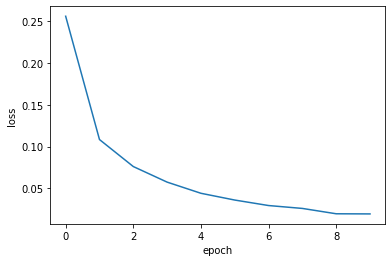
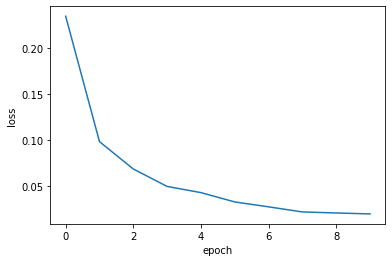
rebuilding site 2019년 9월  8일 일요일 14시 13분 16초 KST

diff --git a/post/neural_network_mnist/index.html b/post/neural_network_mnist/index.html
@@ -186,10 +186,8 @@ C에서의 &lsquo;hello world&rsquo;급이라고 할 수 있다.</p>
 <p>⚙ 엔지니어</p>
 
 <blockquote>
-<p>keras가 좋아하는 모양으로 되어 있다.<br />
-(batch_size, input_dimension) 기억하는가?<br />
-batch_size = 60000<br />
-imput_dimension = 784 (28X28)</p>
+<p>batch_size 는 60000<br />
+imput_dimension 은 (28X28)로 2D로 되어 있다.</p>
 
 <p>2D라고 쫄지말자&hellip;<br />
 x-y 그래프에서 점을 찍는데 점 색깔이 회색조로 256개가 있다고 생각하면 된다.<br />
@@ -249,7 +247,7 @@ plt<span style="color:#f92672">.</span>show()</code></pre></div>
 
 <h2 id="데이터-변환-data-transformation">데이터 변환 (Data Transformation)</h2>
 
-<p>입력 데이터의 shape (28,28)를 (784, )로 변환해 주어야 한다.<br />
+<p>입력 데이터의 2D shape (28,28)를 1D (784, )로 변환해 주는 작업을 <strong>벡터화(Flattern)</strong> 라고 한다.<br />
 이 작업은 keras layer에서 처리해 주면 된다. (나중에 하겠다는 얘기다.)</p>
 
 <p>소프트맥스(Softmax)를 사용할 예정이니까 출력 데이터를 원-핫 인코딩으로 변환해 주자</p>
@@ -271,7 +269,7 @@ one-hot encoded first Y_train is  [0. 0. 0. 0. 0. 1. 0. 0. 0. 0.]
 <ul>
 <li>input layer는 2D(28X28)를 1D로 변환해서 784개의 x로 만든다.<br /></li>
 <li>hidden layer 1은 128-unit으로 구성하자<br /></li>
-<li>hiddem layer 2는 32-unit으로 구성하자<br /></li>
+<li>hiddem layer 2는 84-unit으로 구성하자<br /></li>
 <li>output layer는 당연히 10-unit으로 구성, softmax를 activation function으로 사용한다.<br /></li>
 <li>loss는 cross-entropy loss를 사용<br /></li>
 </ul>
@@ -385,7 +383,7 @@ plt<span style="color:#f92672">.</span>show()</code></pre></div>
 
 <ol>
 <li>히든 레이어 개수를 정의한다. 여기서는 2-hidden layer를 사용한다.<br /></li>
-<li>히든 레이어 유닛 개수를 정의한다. 여기서는 128개, 32개 유닛을 사용한다.<br /></li>
+<li>히든 레이어 유닛 개수를 정의한다. 여기서는 128개, 84개 유닛을 사용한다.<br /></li>
 <li>활성 함수(activation function)를 정의한다. 여기서는 <strong>ReLU</strong> 를 사용한다.<br /></li>
 </ol></li>
 <li><strong>출력 레이어(output layer)</strong>  정의<br />
@@ -424,11 +422,11 @@ plt<span style="color:#f92672">.</span>show()</code></pre></div>
 model <span style="color:#f92672">=</span> Sequential()
 model<span style="color:#f92672">.</span>add(Flatten(input_shape<span style="color:#f92672">=</span>(<span style="color:#ae81ff">28</span>,<span style="color:#ae81ff">28</span>)))
 model<span style="color:#f92672">.</span>add(Dense(<span style="color:#ae81ff">128</span>, activation<span style="color:#f92672">=</span><span style="color:#e6db74">&#39;relu&#39;</span>))
-model<span style="color:#f92672">.</span>add(Dense(<span style="color:#ae81ff">32</span>, activation<span style="color:#f92672">=</span><span style="color:#e6db74">&#39;relu&#39;</span>))
+model<span style="color:#f92672">.</span>add(Dense(<span style="color:#ae81ff">84</span>, activation<span style="color:#f92672">=</span><span style="color:#e6db74">&#39;relu&#39;</span>))
 model<span style="color:#f92672">.</span>add(Dense(<span style="color:#ae81ff">10</span>, activation<span style="color:#f92672">=</span><span style="color:#e6db74">&#39;softmax&#39;</span>))
 model<span style="color:#f92672">.</span>compile(loss<span style="color:#f92672">=</span><span style="color:#e6db74">&#39;categorical_crossentropy&#39;</span>, optimizer<span style="color:#f92672">=</span><span style="color:#e6db74">&#39;adam&#39;</span>, metrics<span style="color:#f92672">=</span>[<span style="color:#e6db74">&#39;accuracy&#39;</span>])</code></pre></div>
 <pre><code>WARNING: Logging before flag parsing goes to stderr.
-W0906 19:08:54.737059 139909354948416 deprecation.py:506] From /home/dataman/anaconda3/lib/python3.7/site-packages/tensorflow/python/ops/init_ops.py:1251: calling VarianceScaling.__init__ (from tensorflow.python.ops.init_ops) with dtype is deprecated and will be removed in a future version.
+W0908 14:09:13.760802 139991716501312 deprecation.py:506] From /home/dataman/anaconda3/lib/python3.7/site-packages/tensorflow/python/ops/init_ops.py:1251: calling VarianceScaling.__init__ (from tensorflow.python.ops.init_ops) with dtype is deprecated and will be removed in a future version.
 Instructions for updating:
 Call initializer instance with the dtype argument instead of passing it to the constructor
 </code></pre>
@@ -440,8 +438,8 @@ train_loss <span style="color:#f92672">=</span>  hist<span style="color:#f92672"
 
 <span style="color:#66d9ef">print</span>(<span style="color:#e6db74">&#39;train accuracy: &#39;</span>, train_acc)
 <span style="color:#66d9ef">print</span>(<span style="color:#e6db74">&#39;train loss: &#39;</span>, train_loss)</code></pre></div>
-<pre><code>train accuracy:  0.9932
-train loss:  0.019363174817231873
+<pre><code>train accuracy:  0.99338335
+train loss:  0.020009287602726546
 </code></pre>
 <div class="highlight"><pre style="color:#f8f8f2;background-color:#272822;-moz-tab-size:4;-o-tab-size:4;tab-size:4"><code class="language-python" data-lang="python">plt<span style="color:#f92672">.</span>plot(hist<span style="color:#f92672">.</span>history[<span style="color:#e6db74">&#39;loss&#39;</span>])
 plt<span style="color:#f92672">.</span>xlabel(<span style="color:#e6db74">&#39;epoch&#39;</span>)
@@ -454,9 +452,9 @@ plt<span style="color:#f92672">.</span>show()</code></pre></div>
 
 <span style="color:#66d9ef">print</span>(<span style="color:#e6db74">&#39;test accuracy: &#39;</span>, test_acc)
 <span style="color:#66d9ef">print</span>(<span style="color:#e6db74">&#39;test loss: &#39;</span>, test_loss)</code></pre></div>
-<pre><code>10000/10000 [==============================] - 0s 31us/sample - loss: 0.1025 - acc: 0.9768
-test accuracy:  0.9768
-test loss:  0.1024522928831917
+<pre><code>10000/10000 [==============================] - 0s 33us/sample - loss: 0.1065 - acc: 0.9749
+test accuracy:  0.9749
+test loss:  0.10645339069099137
 </code></pre>
 
 <p>대충 만들었는데도 정확도가 상당히 높다.<br />
@@ -507,7 +505,7 @@ test loss:  0.1024522928831917
 model_l2 <span style="color:#f92672">=</span> Sequential()
 model_l2<span style="color:#f92672">.</span>add(Flatten(input_shape<span style="color:#f92672">=</span>(<span style="color:#ae81ff">28</span>,<span style="color:#ae81ff">28</span>)))
 model_l2<span style="color:#f92672">.</span>add(Dense(<span style="color:#ae81ff">128</span>, kernel_regularizer<span style="color:#f92672">=</span>regularizers<span style="color:#f92672">.</span>l2(<span style="color:#ae81ff">0.0001</span>), activation<span style="color:#f92672">=</span><span style="color:#e6db74">&#39;relu&#39;</span>))
-model_l2<span style="color:#f92672">.</span>add(Dense(<span style="color:#ae81ff">32</span>, kernel_regularizer<span style="color:#f92672">=</span>regularizers<span style="color:#f92672">.</span>l2(<span style="color:#ae81ff">0.0001</span>), activation<span style="color:#f92672">=</span><span style="color:#e6db74">&#39;relu&#39;</span>))
+model_l2<span style="color:#f92672">.</span>add(Dense(<span style="color:#ae81ff">84</span>, kernel_regularizer<span style="color:#f92672">=</span>regularizers<span style="color:#f92672">.</span>l2(<span style="color:#ae81ff">0.0001</span>), activation<span style="color:#f92672">=</span><span style="color:#e6db74">&#39;relu&#39;</span>))
 model_l2<span style="color:#f92672">.</span>add(Dense(<span style="color:#ae81ff">10</span>, activation<span style="color:#f92672">=</span><span style="color:#e6db74">&#39;softmax&#39;</span>))
 model_l2<span style="color:#f92672">.</span>compile(loss<span style="color:#f92672">=</span><span style="color:#e6db74">&#39;categorical_crossentropy&#39;</span>, optimizer<span style="color:#f92672">=</span><span style="color:#e6db74">&#39;adam&#39;</span>, metrics<span style="color:#f92672">=</span>[<span style="color:#e6db74">&#39;accuracy&#39;</span>])
 
@@ -517,8 +515,8 @@ train_loss_l2 <span style="color:#f92672">=</span>  hist<span style="color:#f926
 
 <span style="color:#66d9ef">print</span>(<span style="color:#e6db74">&#39;train accuracy: &#39;</span>, train_acc_l2)
 <span style="color:#66d9ef">print</span>(<span style="color:#e6db74">&#39;train loss: &#39;</span>, train_loss_l2)</code></pre></div>
-<pre><code>train accuracy:  0.9884667
-train loss:  0.07978579129775365
+<pre><code>train accuracy:  0.98798335
+train loss:  0.07904902546405793
 </code></pre>
 <div class="highlight"><pre style="color:#f8f8f2;background-color:#272822;-moz-tab-size:4;-o-tab-size:4;tab-size:4"><code class="language-python" data-lang="python">plt<span style="color:#f92672">.</span>plot(hist<span style="color:#f92672">.</span>history[<span style="color:#e6db74">&#39;loss&#39;</span>])
 plt<span style="color:#f92672">.</span>xlabel(<span style="color:#e6db74">&#39;epoch&#39;</span>)
@@ -529,9 +527,9 @@ plt<span style="color:#f92672">.</span>show()</code></pre></div>
 
 <span style="color:#66d9ef">print</span>(<span style="color:#e6db74">&#39;test accuracy: &#39;</span>, test_acc_l2)
 <span style="color:#66d9ef">print</span>(<span style="color:#e6db74">&#39;test loss: &#39;</span>, test_loss_l2)</code></pre></div>
-<pre><code>10000/10000 [==============================] - 0s 38us/sample - loss: 0.1201 - acc: 0.9777
-test accuracy:  0.9777
-test loss:  0.12008701454401016
+<pre><code>10000/10000 [==============================] - 0s 41us/sample - loss: 0.1209 - acc: 0.9776
+test accuracy:  0.9776
+test loss:  0.12088210636377335
 </code></pre>
 <div class="highlight"><pre style="color:#f8f8f2;background-color:#272822;-moz-tab-size:4;-o-tab-size:4;tab-size:4"><code class="language-python" data-lang="python"><span style="color:#f92672">import</span> pandas <span style="color:#f92672">as</span> pd
 
@@ -564,13 +562,13 @@ df</code></pre></div>
   <tbody>
     <tr>
       <td>model</td>
-      <td>0.993200</td>
-      <td>0.9768</td>
+      <td>0.993383</td>
+      <td>0.9749</td>
     </tr>
     <tr>
       <td>model_with_l2</td>
-      <td>0.988467</td>
-      <td>0.9777</td>
+      <td>0.987983</td>
+      <td>0.9776</td>
     </tr>
   </tbody>
 </table>
